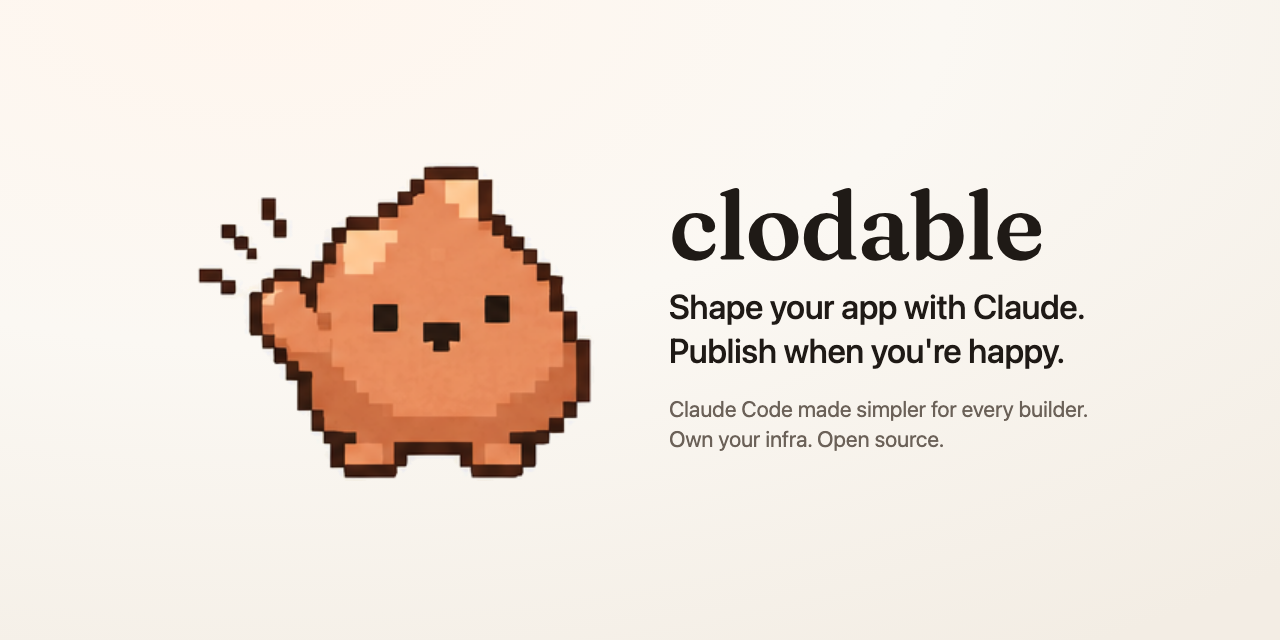
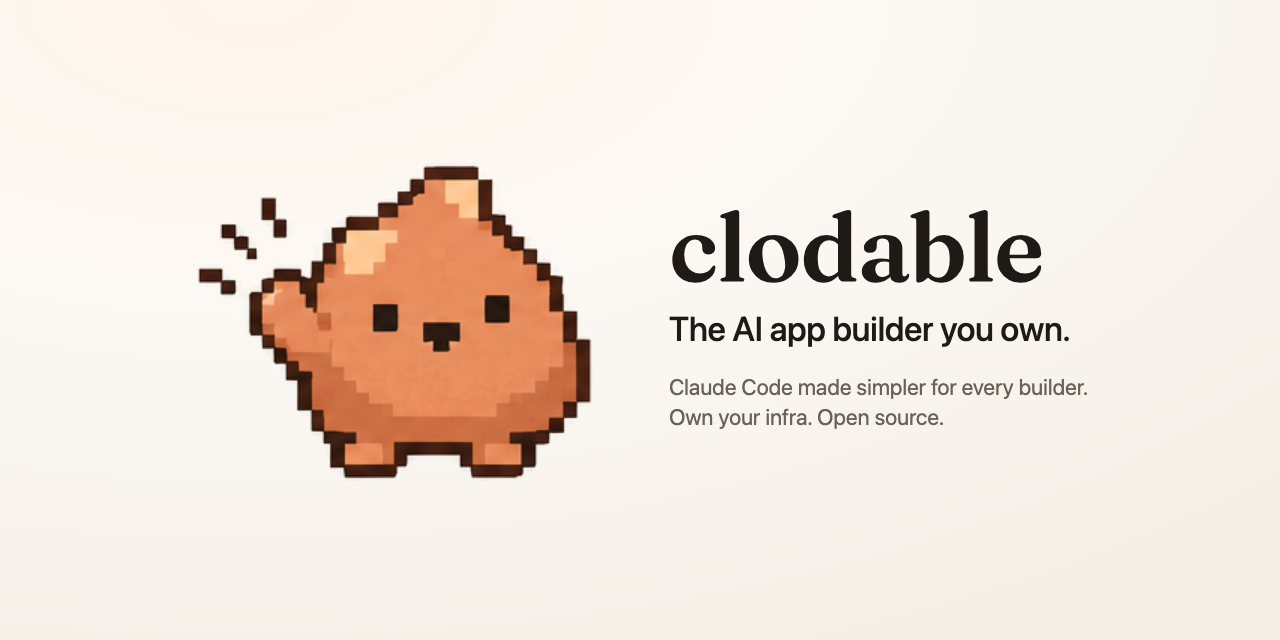
Release 0.1.2: one move for everyone, and a tidy-up
- The by-hand lovable-exit playbook leaves the plugin for docs/parked/:
  it never ran as a skill, and the panel's move is the one path offered,
  developers and agencies included (DECISIONS Q5e). What it covered is
  the backlog for un-parking it.
- Docs say what's true since Q1: judgment in Claude, mechanics in the CLI.
- No lint warnings left; Biome's deprecated "recommended" setting is now
  "preset"; `pnpm shots` runs the screenshot scripts that exist; a stray
  scratch script is gone; the README's dev link works for any version.

Claude-Session: https://claude.ai/code/session_01XRvtk8neDHG6pYNhorfs5v

Changed region(s): [[0.5, 0.2812, 0.8438, 0.7188]]

diff --git a/packages/preview/src/dev-server.ts b/packages/preview/src/dev-server.ts
@@ -1,4 +1,4 @@
-import { existsSync, readFileSync, unwatchFile, watchFile } from "node:fs";
+import { existsSync, readFileSync, statSync } from "node:fs";
 import { dirname, join } from "node:path";
 import { pathToFileURL } from "node:url";
 import { repoint } from "@clodable/core";
@@ -146,6 +146,9 @@ export async function startDevServer(options: DevServerOptions): Promise<Running
   const vite = (await import(
     pathToFileURL(resolveProjectVite(options.root)).href
   )) as typeof import("vite");
+  // Look at the watched files before reading them: a change from this moment on is seen.
+  const backendMarker = options.backend?.watch ? markerWatch(options.backend.watch) : undefined;
+  const settingsMarker = options.settings?.watch ? markerWatch(options.settings.watch) : undefined;
   let backend = await options.backend?.current();
   applyBackendEnv(backend);
   let settings = (await options.settings?.current().catch(() => ({}))) ?? {};
@@ -166,11 +169,10 @@ export async function startDevServer(options: DevServerOptions): Promise<Running
   });
   await server.listen();
   // Switching backends: read again, and restart so every module and the server side pick it up.
-  const watched = options.backend?.watch;
   let switching = Promise.resolve();
-  if (watched && options.backend) {
+  if (backendMarker && options.backend) {
     const source = options.backend;
-    watchFile(watched, { interval: 1000 }, () => {
+    backendMarker.start(() => {
       switching = switching.then(async () => {
         let next: PreviewBackend | undefined;
         try {
@@ -194,10 +196,9 @@ export async function startDevServer(options: DevServerOptions): Promise<Running
     });
   }
   // A setting pasted in Clodable: read them again, and restart so the server side has it.
-  const settingsWatch = options.settings?.watch;
-  if (settingsWatch && options.settings) {
+  if (settingsMarker && options.settings) {
     const source = options.settings;
-    watchFile(settingsWatch, { interval: 1000 }, () => {
+    settingsMarker.start(() => {
       switching = switching.then(async () => {
         const next = await source.current().catch(() => settings);
         if (JSON.stringify(next) === JSON.stringify(settings)) return;
@@ -213,9 +214,41 @@ export async function startDevServer(options: DevServerOptions): Promise<Running
     urls,
     backend: backend ? "copy" : "live",
     close: async () => {
-      if (watched) unwatchFile(watched);
-      if (settingsWatch) unwatchFile(settingsWatch);
+      backendMarker?.stop();
+      settingsMarker?.stop();
       await server.close();
+    },
+  };
+}
+
+/**
+ * Notices when a file changes, checking once a second. Unlike `fs.watchFile`, which takes its first
+ * look in the background, the first look happens on creation: a change made right after can't be
+ * taken for the starting point and missed.
+ */
+function markerWatch(path: string) {
+  const look = () => {
+    try {
+      const s = statSync(path, { throwIfNoEntry: false });
+      return s ? `${s.mtimeMs}:${s.ctimeMs}:${s.size}:${s.ino}` : "none";
+    } catch {
+      return "unreadable";
+    }
+  };
+  let seen = look();
+  let timer: NodeJS.Timeout | undefined;
+  return {
+    start(onChange: () => void) {
+      timer = setInterval(() => {
+        const now = look();
+        if (now === seen) return;
+        seen = now;
+        onChange();
+      }, 1000);
+      timer.unref();
+    },
+    stop() {
+      if (timer) clearInterval(timer);
     },
   };
 }

diff --git a/packages/preview/test/backend.test.ts b/packages/preview/test/backend.test.ts
@@ -131,4 +131,50 @@ describe("the app's settings in the preview", () => {
       else process.env.CLODABLE_TEST_GREETING = before;
     }
   }, 30_000);
+
+  it("notices a setting pasted while the preview is starting", async () => {
+    const root = mkdtempSync(join(import.meta.dirname, "tmp-settings-"));
+    const cwd = process.cwd();
+    const before = process.env.CLODABLE_TEST_GREETING;
+    delete process.env.CLODABLE_TEST_GREETING;
+    try {
+      writeFileSync(join(root, "index.html"), '<div id="root"></div>');
+      const marker = join(root, "settings.json");
+      let values: Record<string, string> = { CLODABLE_TEST_GREETING: "Hello" };
+      let pasted = false;
+      writeFileSync(marker, '{"names":["CLODABLE_TEST_GREETING"]}');
+      const server = await startDevServer({
+        root,
+        port: await freePort(),
+        host: "127.0.0.1",
+        toolbar: false,
+        settings: {
+          // The builder pastes a new value just after the preview read the old one.
+          current: async () => {
+            const read = values;
+            if (!pasted) {
+              pasted = true;
+              values = { CLODABLE_TEST_GREETING: "Bonjour" };
+              writeFileSync(marker, '{"names":["CLODABLE_TEST_GREETING"],"at":"starting"}');
+            }
+            return read;
+          },
+          watch: marker,
+        },
+      });
+      try {
+        for (let i = 0; i < 60 && process.env.CLODABLE_TEST_GREETING !== "Bonjour"; i++) {
+          await new Promise((r) => setTimeout(r, 100));
+        }
+        expect(process.env.CLODABLE_TEST_GREETING).toBe("Bonjour");
+      } finally {
+        await server.close();
+      }
+    } finally {
+      process.chdir(cwd);
+      rmSync(root, { recursive: true, force: true });
+      if (before === undefined) delete process.env.CLODABLE_TEST_GREETING;
+      else process.env.CLODABLE_TEST_GREETING = before;
+    }
+  }, 30_000);
 });

diff --git a/packages/core/src/kit/index.ts b/packages/core/src/kit/index.ts
@@ -135,6 +135,7 @@ export async function planKit(
 
   // .claude/settings.json: the plugin, plus safe permission defaults for any session in this folder.
   const settingsBefore = await read(root, ".claude/settings.json");
+  // biome-ignore lint/suspicious/noExplicitAny: the person's own settings file, in whatever shape it has
   const settings = parseJson<Record<string, any>>(settingsBefore, {});
   const marketplace = options.marketplaceRepo ?? "bworlds-co/clodable";
   const permissions = settings.permissions ?? {};

diff --git a/plugin/tests/clodable.test.tsx b/plugin/tests/clodable.test.tsx
@@ -86,7 +86,7 @@ function harness(
   (calls as unknown as { clock: typeof clock }).clock = clock;
   on("session.start", () => ({ cwd: CWD }));
   // Claude Code's own drawing: a plain Box, or the engine reference where a site requires one.
-  on("ui.render", ($: unknown, e: { component: string }) =>
+  on("ui.render", (_$: unknown, e: { component: string }) =>
     e.component === "AskUserQuestion"
       ? { type: "engine", ref: 0 }
       : { type: "Box", props: {}, children: [] },

diff --git a/packages/cli/test/cli.test.ts b/packages/cli/test/cli.test.ts
@@ -32,6 +32,7 @@ function clodable(...args: string[]) {
   });
   const lines = run.stdout.split("\n").filter(Boolean);
   const events = lines.map((line) => JSON.parse(line) as { type: string; [key: string]: unknown });
+  // biome-ignore lint/suspicious/noExplicitAny: each test reads the result's data in its own shape
   const result = events.at(-1) as { type: "result"; ok: boolean; data?: any; error?: any };
   return { events, result, code: run.status, stderr: run.stderr };
 }

diff --git a/docs/ARCHITECTURE.md b/docs/ARCHITECTURE.md
@@ -2,7 +2,7 @@
 
 Clodable turns Claude Desktop's Code tab into a calm, Lovable-style place to shape an app, then publish it.
 
-The guiding rule is **only the visible layer is tied to Claude**. The logic lives in plain, vendor-neutral parts that any agent or front end can drive, and the Claude mod is a thin skin over them.
+The guiding rule is **judgment in Claude, mechanics in the CLI** ([DECISIONS](DECISIONS.md) Q1). Claude reads the app, names what it uses and changes the code, through the panel's requests and the skills. Keys, API calls, the move's state and the checks live in `@clodable/core`, behind the `clodable` CLI, and the Claude mod draws them and asks Claude.
 
 ```
 ┌──────────────────────────── Claude Desktop · Code tab ────────────────────────────┐
@@ -16,7 +16,7 @@ The guiding rule is **only the visible layer is tied to Claude**. The logic live
 └───────────┬───────────────┴───────────────────────────────────────────────────────┘
             │ spawns  `clodable <command> --json`  (NDJSON events on stdout)
             ▼
-┌──────────────── clodable CLI ─── @clodable/core (vendor-neutral) ─────────────────┐
+┌────────────────────────── clodable CLI ─── @clodable/core ────────────────────────┐
 │ save · status · publish · undo · restore · history · check · dev · setup · doctor │
 │ git ─ GitHub (via `gh`) ─ checks (build, packages, leaked keys) ─ repo kit        │
 └───────────┬──────────────────────────────┬─────────────────────────────────────────┘
@@ -67,7 +67,7 @@ The schema lives in `packages/core/src/events.ts` and is the contract between th
 
 ### The inbox (`.clodable/inbox/`)
 
-The preview toolbar can't talk to Claude directly, and it shouldn't, because it must stay vendor-neutral. It writes small JSON files that any front end can read:
+The preview toolbar runs inside the app's page, so it can't talk to Claude directly. It writes small JSON files that the Claude mod reads:
 
 | File | Written when | The Claude mod reacts by |
 |---|---|---|

diff --git a/README.md b/README.md
@@ -10,8 +10,8 @@
 </p>
 
 <p align="center">
-  <b>Shape your app with Claude. Publish when you're happy.</b><br>
-  An open-source, Lovable-style app builder that runs on your own computer, on top of Claude Code.
+  <b>The AI app builder you own.</b><br>
+  Like Lovable, but on your own computer: open source, built on Claude Code, with every key in your name.
 </p>
 
 <p align="center">
@@ -192,9 +192,9 @@ node <repo>/packages/cli/dist/clodable.mjs publish
 ```bash
 claude plugin install clodable --marketplace "$PWD"
 ```
-In the terminal, Claude Code reads the plugin straight from `plugin/` here, so your edits apply at the next session or `/reload-plugins`. Claude Desktop loads the copy made at install time instead, so point that copy at your checkout once:
+In the terminal, Claude Code reads the plugin straight from `plugin/` here, so your edits apply at the next session or `/reload-plugins`. Claude Desktop loads the copy made at install time instead (`~/.claude/plugins/cache/clodable/clodable/<version>`), so point that copy at your checkout once:
 ```bash
-rm -rf ~/.claude/plugins/cache/clodable/clodable/0.1.0 && ln -s "$PWD/plugin" ~/.claude/plugins/cache/clodable/clodable/0.1.0
+d=$(ls -d ~/.claude/plugins/cache/clodable/clodable/*/ | head -1); rm -rf "$d" && ln -s "$PWD/plugin" "${d%/}"
 ```
 Clodable only acts in apps it set up, so your other projects are unaffected. To remove it: `claude plugin marketplace remove clodable`.
 

diff --git a/CONTRIBUTING.md b/CONTRIBUTING.md
@@ -5,7 +5,7 @@ Thank you for helping. Clodable is for builders, not developers. Every change sh
 ## Before you start
 
 - Read [docs/design/PRINCIPLES.md](docs/design/PRINCIPLES.md). Any text a builder sees follows its vocabulary: *Saved*, *Publish*, *Live*, *Undo*. Never "commit", "merge" or "deploy".
-- Read [docs/ARCHITECTURE.md](docs/ARCHITECTURE.md). Logic belongs in `packages/core`, which is vendor-neutral. `plugin/` stays a thin skin over the CLI.
+- Read [docs/ARCHITECTURE.md](docs/ARCHITECTURE.md). Judgment belongs to Claude (the panel's requests, the skills); mechanics belong in `packages/core`, behind the CLI: keys, API calls, the move's state, the checks.
 - Product decisions are recorded in [docs/DECISIONS.md](docs/DECISIONS.md). Propose changes to them in an issue first.
 
 ## Setup
